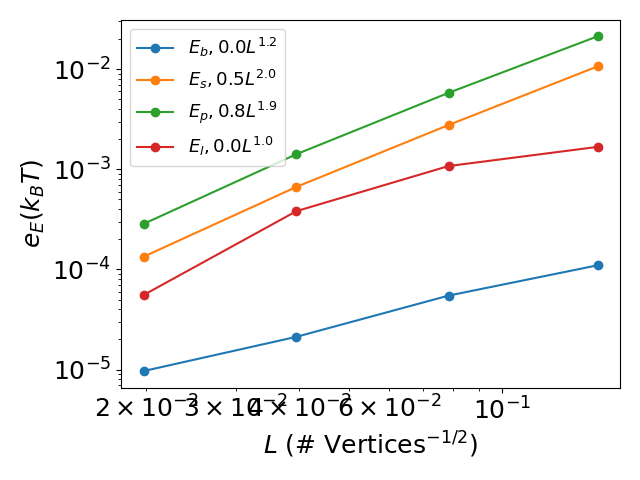
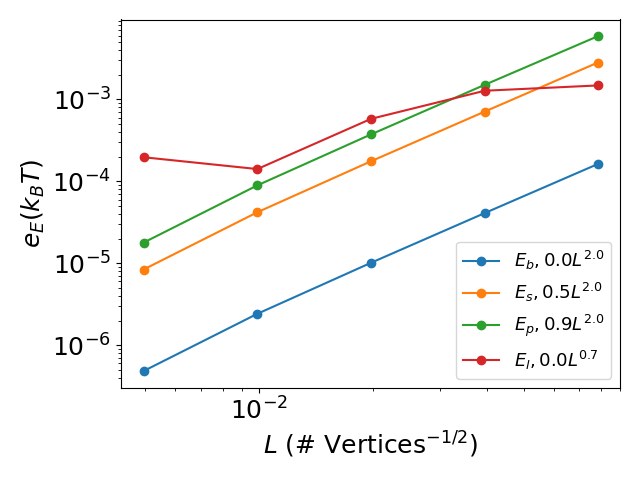
split line tension test and 3 major force test

diff --git a/visualization/convergence/convergence_pybind.py b/visualization/convergence/convergence_pybind.py
@@ -13,16 +13,16 @@ outputDir = "C://Users//Kieran//Dev//2020-Mem3DG-Applications//results//vesicle/
 isProtein = False
 isVertexShift = False
 isReducedVolume = False
-isLocalCurvature = True
+isLocalCurvature = False
 
 nSub = 0
 
 p = pymem3dg.Parameters()
 p.Kb = 8.22e-5
 p.H0 = 3
-p.sharpness = 10000000
-p.r_H0 = [1, 1]
-p.eta = 0.0005
+p.sharpness = 0
+p.r_H0 = [-1, -1]
+p.eta = 0
 p.Ksg = 0.05
 p.Kst = 0.1
 p.Ksl = 0
@@ -65,7 +65,7 @@ kBT = 1.38e-23 * 310 * 1e15  # 1e-15 J
 pJ = 1e3  # fJ = 1e-15 J
 Pa = 1e-3  # kPa
 
-nSubSize = 5
+nSubSize = 6
 nvertices = np.zeros(nSubSize)
 l2bendnorm = np.zeros(nSubSize)
 l2surfnorm = np.zeros(nSubSize)
@@ -78,7 +78,7 @@ pressenergy = np.zeros(nSubSize)
 lineenergy = np.zeros(nSubSize)
 
 for i in range(nSubSize):
-    n = i+1
+    n = i+2
     faceMatrix, vertexMatrix = pymem3dg.getIcosphere(n, 1.3)
     faceMatrix, refVertexMatrix = pymem3dg.getIcosphere(n, 1)
     g = pymem3dg.System(faceMatrix, vertexMatrix, refVertexMatrix, nSub, p, isReducedVolume,
@@ -92,16 +92,34 @@ for i in range(nSubSize):
         g.getLumpedMassMatrix() * g.getCapillaryPressure())
     l2pressnorm[i] = g.computeL2Norm(
         g.getLumpedMassMatrix() * g.getInsidePressure())
-    l2linenorm[i] = g.computeL2Norm(
-        g.getLumpedMassMatrix() * g.getLineTensionPressure())
 
     bendenergy[i] = g.E.BE
     surfenergy[i] = g.E.sE
     pressenergy[i] = g.E.pE
+
+# activate line tension
+isLocalCurvature = True
+p.sharpness = 10000000
+p.r_H0 = [1, 1]
+p.eta = 0.0005
+for i in range(nSubSize):
+    n = i+1
+    faceMatrix, vertexMatrix = pymem3dg.getIcosphere(n, 1.3)
+    faceMatrix, refVertexMatrix = pymem3dg.getIcosphere(n, 1)
+    g = pymem3dg.System(faceMatrix, vertexMatrix, refVertexMatrix, nSub, p, isReducedVolume,
+                        isProtein, isLocalCurvature, isVertexShift)
+    g.computeFreeEnergy()
+    g.computeLineTensionPressure()
+    l2linenorm[i] = g.computeL2Norm(
+        g.getLumpedMassMatrix() * g.getLineTensionPressure())
     lineenergy[i] = g.E.lE
 
 
 print(g.getLineTension())
+print(l2bendnorm)
+print(l2linenorm)
+print(l2pressnorm)
+print(l2surfnorm)
 print(bendenergy)
 print(surfenergy)
 print(pressenergy)
@@ -199,7 +217,6 @@ ax.set_ylabel("$e_E(k_BT)$")
 ax.set_xlabel("$L$ (# Vertices$^{-1/2}$)")
 plt.tight_layout()
 plt.savefig("energy_conv.png")
-
 
 
 # plt.show()
